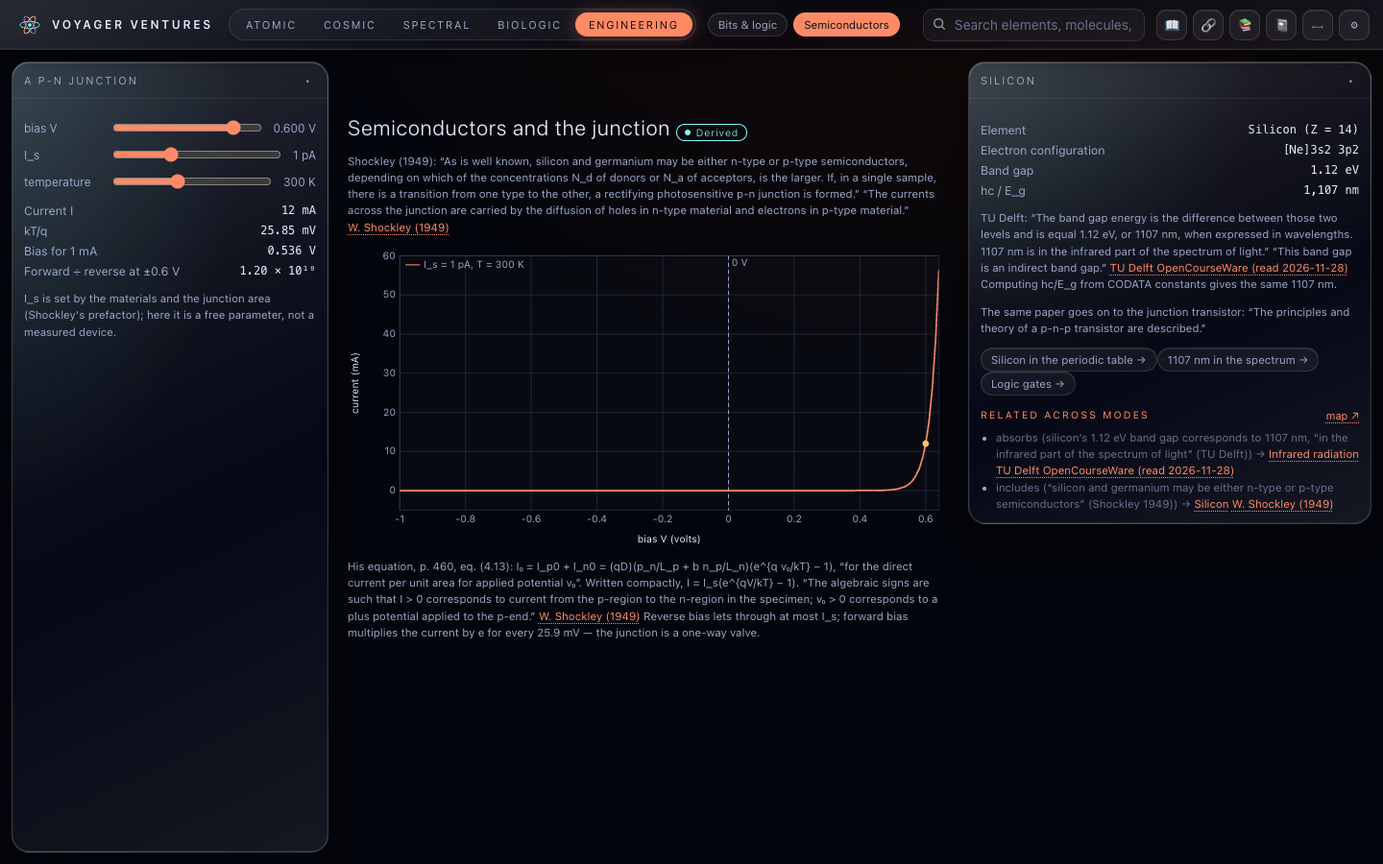
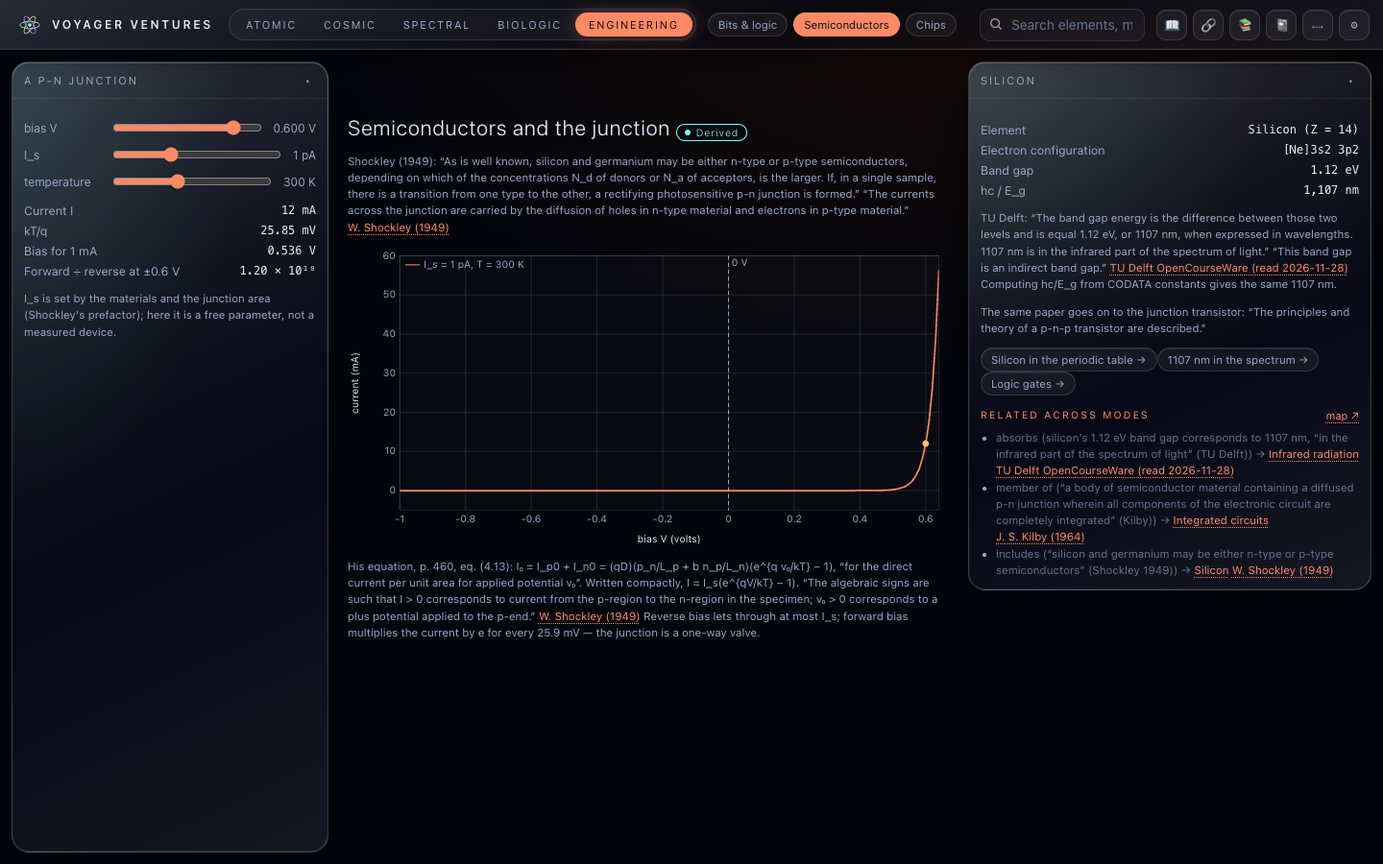
Gate 15.3: integrated circuits — Kilby and Noyce 1959 patents, the planar process (#/engineering/chips)
Both patents read on the USPTO page images; original drawing sheets shown (public domain).

Claude-Session: https://claude.ai/code/session_012kk9KVTjrcZt1kBsRpDRu1

Changed region(s): [[0.7188, 0.56, 0.9688, 0.6844], [0.6562, 0.0, 0.75, 0.0622]]

diff --git a/src/modes/engineering/chips/ChipsView.tsx b/src/modes/engineering/chips/ChipsView.tsx
@@ -1,0 +1,80 @@
+/**
+ * Integrated circuits — #/engineering/chips?p=kilby|noyce&s=<step>   (Phase 15, Gate 15.3)
+ *
+ * The two 1959 patents that put a whole circuit into one piece of semiconductor, read on the USPTO page images:
+ * Kilby (US 3,138,743) and Noyce (US 2,981,877), with their original drawing sheets (public domain) and a
+ * step-through of Noyce's planar process in his own words, drawn as a schematic section after his Fig. 2.
+ */
+import { navigate, setQuery, useRoute } from '@/shared/router';
+import { KV, Panel, ProvenanceBadge } from '@/ui/components';
+import { SourceLinks } from '@/ui/SourcesView';
+import { RelatedLinks } from '@/ui/RelatedLinks';
+import data from '@datasets/engineering/chips.json';
+
+interface Pat { source: string; number: string; title: string; filed: string; granted: string; assignee: string; image: string; imageCaption: string; quotes: string[] }
+const D = data as unknown as { kilby: Pat; noyce: Pat & { steps: { title: string; quote: string }[]; scale: { quote: string } } };
+const SI = '#55607a', N = '#4a6fa5', P = '#a5624a', OX = '#7df9ff', MET = '#f5c76b';
+
+/** Schematic cross-section after Noyce's Fig. 2 at step s (0–3): not to scale. */
+function Section({ s }: { s: number }) {
+  const W = 560;
+  return (
+    <svg viewBox={`0 0 ${W} 200`} role="img" aria-label={`Planar process, step ${s + 1}`} style={{ width: '100%', maxWidth: W }}>
+      <rect x={20} y={70} width={520} height={110} fill={SI} />
+      <path d="M 170 70 Q 280 170 390 70 Z" fill={N} /><path d="M 220 70 Q 280 130 340 70 Z" fill={P} /><path d="M 255 70 Q 280 98 305 70 Z" fill={N} />
+      <text x={30} y={170} fontSize={12} fill="#dde">silicon body</text><text x={185} y={100} fontSize={12} fill="#fff">N</text><text x={232} y={86} fontSize={11} fill="#fff">P</text><text x={276} y={84} fontSize={10} fill="#fff">N</text>
+      {s >= 0 && <rect x={20} y={58} width={520} height={12} fill={OX} opacity={0.75} />}
+      {s >= 2 && <><rect x={268} y={58} width={24} height={12} fill="#03050c" /><rect x={226} y={58} width={14} height={12} fill="#03050c" /></>}
+      {s >= 3 && <><rect x={268} y={46} width={24} height={24} fill={MET} /><path d="M 280 46 L 480 46 L 480 58 L 292 58 Z" fill={MET} /><rect x={226} y={46} width={14} height={24} fill={MET} /><path d="M 233 46 L 60 46 L 60 58 L 226 58 Z" fill={MET} /></>}
+      <text x={430} y={40} fontSize={11} fill={s >= 3 ? MET : 'transparent'}>metal leads on the oxide</text>
+      <text x={420} y={86} fontSize={11} fill={OX}>↑ oxide layer</text>
+      {s >= 2 && <text x={210} y={30} fontSize={11} fill="var(--text-dim)">windows opened through the oxide</text>}
+      <text x={20} y={196} fontSize={10} fill="var(--text-faint)">Schematic after Noyce's Fig. 2 (emitter N, base P, collector N); thicknesses exaggerated, not to scale.</text>
+    </svg>
+  );
+}
+
+export default function ChipsView() {
+  const { query } = useRoute();
+  const which = query.get('p') === 'kilby' ? 'kilby' : 'noyce';
+  const pat: Pat = which === 'kilby' ? D.kilby : D.noyce;
+  const s = Math.min(3, Math.max(0, Number(query.get('s')) || 0));
+  const step = D.noyce.steps[s];
+  return (
+    <>
+      <Panel id="chips-list" className="left-panel" title="Two patents, 1959">
+        {([['kilby', D.kilby], ['noyce', D.noyce]] as const).map(([k, p]) => (
+          <button key={k} className={`chip ${k === which ? 'active' : ''}`} aria-pressed={k === which} onClick={() => setQuery({ p: k === 'noyce' ? null : k })} style={{ display: 'block', marginBottom: 6 }}>{k === 'kilby' ? 'Kilby' : 'Noyce'} — {p.title}</button>
+        ))}
+        <dl className="kv" aria-label="Patent values">
+          <KV k="Patent" v={`US ${pat.number}`} /><KV k="Filed" v={pat.filed} /><KV k="Granted" v={pat.granted} /><KV k="Assignee" v={pat.assignee} />
+        </dl>
+        <p className="note">Both read on the U.S. Patent Office page images. <SourceLinks ids={[pat.source]} /></p>
+      </Panel>
+      <div className="center-stage hr-stage">
+        <div className="stage-head"><h1>A whole circuit in one crystal <ProvenanceBadge cls="observed" title="Patent text and drawings (public domain)" /></h1>
+          {pat.quotes.map((q, i) => <p key={i} className="note">“{q}”</p>)}
+          <p className="note"><SourceLinks ids={[pat.source]} /></p></div>
+        {which === 'noyce' && (
+          <section aria-label="Planar process" style={{ marginBottom: 12 }}>
+            <div className="chip-row" role="group" aria-label="Process steps">{D.noyce.steps.map((x, i) => <button key={x.title} className={`chip ${i === s ? 'active' : ''}`} aria-pressed={i === s} onClick={() => setQuery({ s: String(i) })}>{i + 1}. {x.title}</button>)}</div>
+            <Section s={s} />
+            <blockquote className="quote">“{step.quote}” <SourceLinks ids={[D.noyce.source]} /></blockquote>
+          </section>
+        )}
+        <figure style={{ margin: 0 }}>
+          <img src={pat.image} alt={`US patent ${pat.number}, ${pat.imageCaption}`} style={{ maxWidth: '100%', maxHeight: 520, background: '#fff', borderRadius: 6 }} />
+          <figcaption className="note">US {pat.number}, {pat.imageCaption}. United States Patent Office (public domain).</figcaption>
+        </figure>
+      </div>
+      <Panel id="chips-detail" className="right-panel" title="How small">
+        <p className="note">Noyce: “{D.noyce.scale.quote}” For comparison, a mitochondrion is “Typically 1–2 micrometers but can be up to 7 micrometers long”. <SourceLinks ids={['nigms-inside-the-cell']} /></p>
+        <button className="chip" onClick={() => navigate('/biologic?sel=mitochondrion')}>Microns on the scale of life →</button>
+        <button className="chip" onClick={() => navigate('/engineering/semiconductors')}>The p-n junction →</button>
+        <button className="chip" onClick={() => navigate('/atomic/element/14')}>Silicon →</button>
+        <p className="note">Moore's 1965 observation on how the number of components per chip grows is not shown: the only copy found is on a site whose terms forbid automated access.</p>
+        <RelatedLinks id="instrument:chips" limit={3} />
+      </Panel>
+    </>
+  );
+}

diff --git a/scripts/ingestion/curated-chips.ts b/scripts/ingestion/curated-chips.ts
@@ -1,0 +1,35 @@
+/**
+ * Integrated circuits (Phase 15, Gate 15.3) → datasets/engineering/chips.json
+ *
+ *   node --experimental-strip-types scripts/ingestion/curated-chips.ts
+ *
+ * Read 2026-11-28 on the USPTO page images (image-ppubs.uspto.gov; robots.txt absent; U.S. patents are public
+ * domain): Kilby US 3,138,743 (filed 6 Feb 1959) col. 1–2 and sheet 4; Noyce US 2,981,877 (filed 30 July 1959)
+ * col. 1–2 and sheet 1. The two drawing sheets are reproduced in public/images/patents/ (downscaled, unaltered).
+ */
+import { writeDataset } from './lib/ingest.ts';
+
+const data = {
+  version: '1.0.0',
+  kilby: { source: 'kilby-us3138743', number: '3,138,743', title: 'Miniaturized Electronic Circuits', filed: '1959-02-06', granted: '1964-06-23', assignee: 'Texas Instruments', image: '/images/patents/kilby-3138743-sheet4.jpg', imageCaption: 'Sheet 4 (Figs. 8a–8c), as filed',
+    quotes: [
+      'This invention relates to miniature electronic circuits, and more particularly to unique integrated electronic circuits fabricated from semiconductor material.',
+      'It is, therefore, a principal object of this invention to provide a novel miniaturized electronic circuit fabricated from a body of semiconductor material containing a diffused p-n junction wherein all components of the electronic circuit are completely integrated into the body of semiconductor material.',
+      'In accordance with the principles of the invention, the ultimate in circuit miniaturization is attained using only one material for all circuit elements and a limited number of compatible process steps for the production thereof.',
+    ] },
+  noyce: { source: 'noyce-us2981877', number: '2,981,877', title: 'Semiconductor Device-and-Lead Structure', filed: '1959-07-30', granted: '1961-04-25', assignee: 'Fairchild Semiconductor', image: '/images/patents/noyce-2981877-sheet1.jpg', imageCaption: 'Sheet 1 (Figs. 1 and 2: plan view and section), as filed',
+    quotes: [
+      'to make unitary circuit structures more compact and more easily fabricated in small sizes than has heretofore been feasible; and to facilitate the inclusion of numerous semiconductor devices within a single body of material.',
+      'In brief, the present invention utilizes dished junctions extending to the surface of a body of extrinsic semiconductor, an insulating surface layer consisting essentially of oxide of the same semiconductor extending across the junctions, and leads in the form of vacuum-deposited or otherwise formed metal strips extending over and adherent to the insulating oxide layer for making electrical connections to and between various regions of the semiconductor body without shorting the junctions.',
+    ],
+    steps: [
+      { title: 'Diffuse and oxidise', quote: 'During diffusion of the donor and acceptor impurities into the semiconductor, at elevated temperature in an oxidizing atmosphere, the surface of the silicon oxidizes and forms an oxide layer 5, often one micron or more in thickness, congenitally united with and covering surface 2.' },
+      { title: 'An insulator', quote: 'the oxide surface layer is durable and firmly adherent to the semiconductor body, and furthermore it is a good electrical insulator.' },
+      { title: 'Open windows by photoengraving', quote: 'A convenient and highly accurate way to remove only selected portions of the oxide film is to use photoengraving techniques.' },
+      { title: 'Leads over the oxide', quote: 'Electrical connections to this emitter contact are made through a metal strip 7 extending over and adherent to oxide layer 5.' },
+    ],
+    scale: { quote: 'The thickness of the emitter and base layers has been exaggerated in the drawings: in actual practice each of these layers is but a few microns thick.' } },
+};
+writeDataset('datasets/engineering/chips.json', data, { dataset: 'chips', version: '1.0.0', records: 11,
+  sources: [{ institution: 'United States Patent and Trademark Office: US 3,138,743 (Kilby) and US 2,981,877 (Noyce)', url: 'https://image-ppubs.uspto.gov/dirsearch-public/print/downloadPdf/3138743', license: 'U.S. patents: public domain', notes: 'text and drawings read on the page images' }],
+  adapter: 'scripts/ingestion/curated-chips.ts', warnings: ['Moore (1965) is not used: Intel’s terms of use forbid automated access and no other open copy was found.'] });

diff --git a/src/App.tsx b/src/App.tsx
@@ -74,6 +74,7 @@ const GrTestsView = lazy(() => import('@/modes/cosmic/relativity/GrTestsView'));
 const ModelsView = lazy(() => import('@/modes/cosmic/universe/ModelsView'));
 const LogicView = lazy(() => import('@/modes/engineering/logic/LogicView'));
 const SemiconductorsView = lazy(() => import('@/modes/engineering/semiconductors/SemiconductorsView'));
+const ChipsView = lazy(() => import('@/modes/engineering/chips/ChipsView'));
 
 export default function App() {
   const { path } = useRoute();
@@ -110,7 +111,7 @@ export default function App() {
   } else if (mode === 'cosmic') view = path[1] === 'map' ? <UniverseMapView /> : path[1] === 'plasma' ? <PlasmaView /> : path[1] === 'grtests' ? <GrTestsView /> : path[1] === 'models' ? <ModelsView /> : path[1] === 'sandbox' ? <SandboxView /> : path[1] === 'relativity' ? <RelativityView /> : path[1] === 'compact' ? <CompactView /> : path[1] === 'lensing' ? <LensingView /> : path[1] === 'galaxies' ? <GalaxiesView /> : path[1] === 'nebulae' ? <NebulaeView /> : path[1] === 'universe' ? <UniverseView /> : path[1] === 'ladder' ? <LadderView /> : path[1] === 'cmb' ? <CmbView /> : path[1] === 'darkmatter' ? <DarkMatterView /> : path[1] === 'gw' ? <GwView /> : path[1] === 'stars' ? (path[2] === 'hr' ? <HrView /> : path[2] === 'planets' ? <PlanetsView /> : <StarsView />) : <CosmicView focusId={path[1] ?? 'sun'} />;
   else if (mode === 'spectral') view = path[1] === 'lab' ? <WaveLab /> : path[1] === 'fields' ? <FieldsView /> : path[1] === 'compare' ? <CompareView /> : path[1] === 'antennas' ? <AntennaView /> : path[1] === 'rf' ? <RfView /> : path[1] === 'room' ? <RoomView /> : path[1] === 'modulation' ? <ModulationView /> : path[1] === 'acoustics' ? <AcousticsView /> : path[1] === 'audio' ? <AudioView /> : path[1] === 'roomacoustics' ? <RoomAcousticsView /> : path[1] === 'optics' ? <OpticsView /> : path[1] === 'waveoptics' ? <WaveOpticsView /> : path[1] === 'polarisation' ? <PolarisationView /> : path[1] === 'spectroscopy' ? <SpectroscopyView /> : path[1] === 'thermal' ? <ThermalView /> : path[1] === 'telescopes' ? <TelescopesView /> : path[1] === 'atmosphere' ? <AtmosphereView /> : <SpectralAtlas />;
   else if (mode === 'biologic') view = path[1] === 'molecules' ? <BiomoleculesView /> : path[1] === 'proteins' ? <ProteinsView /> : path[1] === 'cells' ? <CellsView /> : path[1] === 'membranes' ? <MembranesView /> : path[1] === 'transport' ? <TransportView /> : path[1] === 'plants' ? <PlantsView /> : path[1] === 'body' ? <BodyView /> : path[1] === 'movement' ? <MovementView /> : path[1] === 'circulation' ? <CirculationView /> : path[1] === 'nerves' ? <NervesView /> : path[1] === 'systems' ? <SystemsView /> : path[1] === 'zoom' ? <ZoomView /> : path[1] === 'senses' ? <SensesView /> : path[1] === 'imaging' ? <ImagingView /> : <LifeAtlasView />;
-  else if (mode === 'engineering') view = path[1] === 'semiconductors' ? <SemiconductorsView /> : <LogicView />;
+  else if (mode === 'engineering') view = path[1] === 'semiconductors' ? <SemiconductorsView /> : path[1] === 'chips' ? <ChipsView /> : <LogicView />;
   else if (mode === 'notebook') view = <NotebookView />;
   else if (mode === 'scale') view = <ScaleView />;
   else if (mode === 'relations') view = <RelationsView />;

diff --git a/src/shared/sources/sources.ts b/src/shared/sources/sources.ts
@@ -1009,6 +1009,12 @@ export const SOURCES: Source[] = [
   { id: 'tudelft-ocw-solar', kind: 'book', citation: 'TU Delft OpenCourseWare. Solar Energy, section 12.1 “Crystalline silicon” (course text, read 2026-11-28).', title: 'Solar Energy — 12.1 Crystalline silicon', authors: 'TU Delft OpenCourseWare', year: 'read 2026-11-28',
     institution: 'Delft University of Technology', url: 'https://ocw.tudelft.nl/courses/solar-energy/', license: 'Course page: Creative Commons Attribution-NonCommercial-ShareAlike 4.0 International (the section PDF carries no separate notice)', authorBio: null,
     usedFor: ['silicon’s band gap 1.12 eV, 1107 nm, indirect'], datasets: ['semiconductors'] },
+  { id: 'kilby-us3138743', kind: 'report', citation: 'Kilby, J. S. (1964) Miniaturized Electronic Circuits. U.S. Patent 3,138,743, filed 6 February 1959, granted 23 June 1964 (assignor to Texas Instruments). Read on the USPTO page images.', title: 'Miniaturized Electronic Circuits (US 3,138,743)', authors: 'J. S. Kilby', year: 1964,
+    institution: 'United States Patent Office', url: 'https://image-ppubs.uspto.gov/dirsearch-public/print/downloadPdf/3138743', license: 'U.S. patent: public domain (drawing sheet 4 reproduced)', authorBio: null,
+    usedFor: ['“all components of the electronic circuit are completely integrated into the body of semiconductor material” (col. 2)'], datasets: ['chips'] },
+  { id: 'noyce-us2981877', kind: 'report', citation: 'Noyce, R. N. (1961) Semiconductor Device-and-Lead Structure. U.S. Patent 2,981,877, filed 30 July 1959, granted 25 April 1961 (assignor to Fairchild Semiconductor). Read on the USPTO page images.', title: 'Semiconductor Device-and-Lead Structure (US 2,981,877)', authors: 'R. N. Noyce', year: 1961,
+    institution: 'United States Patent Office', url: 'https://image-ppubs.uspto.gov/dirsearch-public/print/downloadPdf/2981877', license: 'U.S. patent: public domain (drawing sheet 1 reproduced)', authorBio: null,
+    usedFor: ['the oxide insulating layer, photoengraving, and metal leads over the oxide (col. 1–2)'], datasets: ['chips'] },
   { id: 'southall-1910', kind: 'book', citation: 'Southall, J. P. C. (1910) The Principles and Methods of Geometrical Optics, Especially as Applied to the Theory of Optical Instruments. New York: Macmillan.', title: 'The Principles and Methods of Geometrical Optics', authors: 'J. P. C. Southall', year: 1910,
     institution: 'Macmillan; scan of the University of Toronto library at the Internet Archive (principlesmethod00soutuoft)', url: 'https://archive.org/details/principlesmethod00soutuoft', license: 'Public domain (published 1910)',
     authorBio: 'James P. C. Southall, Professor of Physics in the Alabama Polytechnic Institute (title page, read from the scan’s text layer).',

diff --git a/tests/e2e/phase15.spec.ts b/tests/e2e/phase15.spec.ts
@@ -62,3 +62,21 @@ test('117 semiconductors: silicon’s band gap and Shockley’s junction equatio
   await page.getByLabel('Bias voltage').fill('-0.5');
   await expect(v).toContainText('−1 pA');
 });
+
+// ---------------- Gate 15.3 ----------------
+test('118 integrated circuits: Kilby’s and Noyce’s 1959 patents and the planar process', async ({ page }) => {
+  await page.goto('/#/engineering/semiconductors');
+  await page.getByRole('navigation', { name: 'Engineering sections' }).getByRole('button', { name: 'Chips' }).click();
+  await expect(page).toHaveURL(/#\/engineering\/chips$/);
+  const bar = await page.locator('header.topbar').boundingBox(), acts = await page.locator('.topbar-actions').boundingBox();
+  expect(acts!.x + acts!.width).toBeLessThanOrEqual(bar!.x + bar!.width + 1);
+  await expect(page.getByLabel('Patent values')).toContainText('US 2,981,877');
+  await expect(page.locator('.stage-head')).toContainText('without shorting the junctions');
+  await page.getByRole('button', { name: '4. Leads over the oxide' }).click();
+  await expect(page.getByRole('region', { name: 'Planar process' })).toContainText('a metal strip 7 extending over and adherent to oxide layer 5');
+  await expect(page.getByRole('img', { name: /US patent 2,981,877/ })).toBeVisible();
+  await shot(page, '118a-noyce', 'Integrated circuits (Gate 15.3): Noyce’s US 2,981,877 (filed 1959) — the planar process step by step in his own words (oxide, photoengraved windows, metal leads over the oxide), a schematic section after his Fig. 2, and his original drawing sheet.');
+  await page.getByRole('button', { name: /^Kilby — / }).click();
+  await expect(page.locator('.stage-head')).toContainText('all components of the electronic circuit are completely integrated');
+  await shot(page, '118b-kilby', 'Kilby’s US 3,138,743 (filed February 1959): the integrated circuit in one body of semiconductor, with drawing sheet 4.');
+});

diff --git a/src/ui/TopBar.tsx b/src/ui/TopBar.tsx
@@ -32,7 +32,7 @@ interface Hit { kind: 'element' | 'molecule' | 'body' | 'reaction' | 'material' 
 const SPECTRAL_SECTIONS = ['lab', 'fields', 'compare', 'antennas', 'rf', 'room', 'modulation', 'acoustics', 'audio', 'roomacoustics', 'optics', 'waveoptics', 'polarisation', 'spectroscopy', 'thermal', 'telescopes', 'atmosphere'];
 /** Biologic sub-routes other than the scale-of-life atlas (Phase 11+). */
 export const BIOLOGIC_SECTIONS: string[] = ['molecules', 'proteins', 'cells', 'membranes', 'transport', 'plants', 'body', 'movement', 'circulation', 'nerves', 'systems', 'zoom', 'senses', 'imaging'];
-const ENGINEERING_SECTIONS: string[] = ['semiconductors'];
+const ENGINEERING_SECTIONS: string[] = ['semiconductors', 'chips'];
 const COSMIC_SECTIONS = ['map', 'stars', 'sandbox', 'relativity', 'compact', 'lensing', 'galaxies', 'nebulae', 'universe', 'ladder', 'cmb', 'darkmatter', 'gw', 'plasma', 'grtests', 'models'];
 
 /** A chip that opens a small menu of related sections; it is highlighted when one of them is open. */
@@ -315,6 +315,7 @@ export function TopBar() {
           <nav className="chip-row hide-mobile" aria-label="Engineering sections">
             <button className={`chip ${!ENGINEERING_SECTIONS.includes(path[1]) ? 'active' : ''}`} onClick={() => navigate('/engineering')}>Bits & logic</button>
             <button className={`chip ${path[1] === 'semiconductors' ? 'active' : ''}`} onClick={() => navigate('/engineering/semiconductors')}>Semiconductors</button>
+            <button className={`chip ${path[1] === 'chips' ? 'active' : ''}`} onClick={() => navigate('/engineering/chips')}>Chips</button>
           </nav>
         )}
         {mode === 'biologic' && (

diff --git a/src/shared/scientific-relationships/registry.ts b/src/shared/scientific-relationships/registry.ts
@@ -415,6 +415,9 @@ registerEntity(E('instrument:logic', 'Bits and logic', '#/engineering', 'Binary,
 registerEntity(E('instrument:semiconductors', 'Semiconductors and the junction', '#/engineering/semiconductors', 'Silicon’s band gap and Shockley’s p-n junction equation (Gate 15.2)'));
 registerRelationship({ from: 'element:14', to: 'instrument:semiconductors', type: 'part-of', context: '“silicon and germanium may be either n-type or p-type semiconductors” (Shockley 1949)', source: 'shockley-1949' });
 registerRelationship({ from: 'instrument:semiconductors', to: 'wave:em-infrared', type: 'absorbs', context: 'silicon’s 1.12 eV band gap corresponds to 1107 nm, “in the infrared part of the spectrum of light” (TU Delft)', source: 'tudelft-ocw-solar' });
+registerEntity(E('instrument:chips', 'Integrated circuits', '#/engineering/chips', 'Kilby’s and Noyce’s 1959 patents; the planar process (Gate 15.3)'));
+registerRelationship({ from: 'instrument:semiconductors', to: 'instrument:chips', type: 'part-of', context: '“a body of semiconductor material containing a diffused p-n junction wherein all components of the electronic circuit are completely integrated” (Kilby)', source: 'kilby-us3138743' });
+registerRelationship({ from: 'element:14', to: 'instrument:chips', type: 'part-of', context: '“the surface of the silicon oxidizes and forms an oxide layer” — a good electrical insulator (Noyce)', source: 'noyce-us2981877' });
 
 export const getEntity = (id: string) => REGISTRY.get(id);
 export const allEntities = () => [...REGISTRY.values()];

diff --git a/STATUS_REPORT.md b/STATUS_REPORT.md
@@ -1,6 +1,6 @@
 # Voyager Ventures — status report and index
 
-*Kept up to date by Claude during the autonomous run. Last updated: **2026-11-28, Gate 15.2**.*
+*Kept up to date by Claude during the autonomous run. Last updated: **2026-11-28, Gate 15.3**.*
 
 Live site: https://voyager-ventures.vercel.app — **production still serves the build from 2026-11-27** (Phase 10 + universe map + interface pass). Nothing from Phases 11–14 is deployed: you asked for no deploys until Phase 14 is finished. The deploy command is at the bottom.
 
@@ -91,6 +91,7 @@ Four portals: ATOMIC, COSMIC, SPECTRAL, **BIOLOGIC** (new in Phase 11; shows the
 ### ENGINEERING (coral) — **new in Phase 15**
 | Address | What it is | Main sources |
 |---|---|---|
+| `#/engineering/chips` | **Chips** — Kilby’s and Noyce’s 1959 integrated-circuit patents with their drawings; the planar process step by step | US patents 3,138,743 and 2,981,877 |
 | `#/engineering/semiconductors` | **Semiconductors** — silicon’s band gap; a live p-n junction (Shockley’s 1949 equation) | Shockley 1949, TU Delft OCW |
 | `#/engineering` | **Bits & logic** — a byte in binary/hex/two's complement, logic gates with truth tables, NAND universality, a 4-bit adder built from gates | Boole 1854, Shannon 1938 and 1948, NIST |
 
@@ -101,6 +102,8 @@ Four portals: ATOMIC, COSMIC, SPECTRAL, **BIOLOGIC** (new in Phase 11; shows the
 ---
 
 ## 4. What was done in this run (newest first)
+
+- **Gate 15.3** — integrated circuits: the Kilby and Noyce patents read on the Patent Office's own page images, with their original drawings.
 
 - **Gate 15.2** — semiconductors: silicon and a live p-n junction from Shockley's 1949 equation.
 

diff --git a/KNOWN_LIMITATIONS.md b/KNOWN_LIMITATIONS.md
@@ -229,6 +229,7 @@
 * **Plants and microbes (Gate 11.7):** chlorophyll maxima only (no spectra: OMLC states no licence and PhotochemCAD's own site refused the robots.txt request); in ether, not in leaves; sunlight is a black-body model (no measured solar spectrum is openly licensed); no photosynthetic efficiency, no chloroplast drawing or size (no open source with a size was read; NHGRI has no chloroplast entry), no plant-cell schematic beyond its quoted size range. **Not built in Phase 11:** glycolysis and cellular respiration as views (`process:glycolysis` and `process:cellular-respiration` stay *planned*): no allowed open source for the ATP yield or the pathway steps was found.
 
 ## Phase 15 (Computing & Computer Engineering)
+* **Integrated circuits (15.3):** two founding patents and the planar process only — no transistor-count history (Moore 1965 not openly reachable), no lithography physics, no modern process nodes.
 * **Semiconductors (15.2):** the ideal (Shockley) junction only — no series resistance, breakdown, recombination current or temperature dependence of I_s; I_s is a free parameter; no MOSFET or CMOS yet (no openly readable primary source found so far); silicon values from a CC BY-NC-SA course text (no open US-government source found).
 * **Bits and logic (15.1):** ideal Boolean logic — no voltages, timing, propagation delay or fan-out (transistor behaviour comes in 15.2); NIST prefixes stop at exbi (zebi/yobi not on the NIST page); Shannon's 1938 thesis is view-only (the AIEE paper is used).
 

diff --git a/SCIENTIFIC_MODELS.md b/SCIENTIFIC_MODELS.md
@@ -710,3 +710,9 @@ Five new pathways through the Phase 11–14 records — From quarks to leaves; F
 * Shockley (1949) BSTJ 28, read on page images: n- and p-type silicon and germanium (p. 435); eq. (4.13) p. 460, written compactly as I = I_s(e^{qV/kT} − 1) (I_s collects his prefactor; labelled a restatement). Live I–V curve with I_s and temperature; kT/q = 25.85 mV at 300 K; 12.0 mA at +0.6 V for I_s = 1 pA.
 * Silicon: 1.12 eV band gap, 1107 nm (TU Delft OCW §12.1, CC BY-NC-SA course); hc/E_g from CODATA reproduces 1107 nm. Electron configuration from the bundled element data.
 * **Tests:** `tests/science/semiconductor.test.ts` (5).
+
+## 68. Integrated circuits (Phase 15, Gate 15.3): `src/modes/engineering/chips/`, `#/engineering/chips`
+
+* Kilby US 3,138,743 and Noyce US 2,981,877 read on the USPTO page images (robots.txt absent; U.S. patents public domain). Quotes from cols. 1–2; drawing sheets reproduced unaltered (downscaled) in `public/images/patents/`.
+* Noyce's planar process as four steps in his words (oxide formed during diffusion; “a good electrical insulator”; photoengraved windows; metal strips over the oxide), drawn as a schematic section after his Fig. 2, labelled not to scale.
+* Moore (1965) left out: the only copy is on intel.com, whose terms forbid bots.

diff --git a/BUILD_LOG.md b/BUILD_LOG.md
@@ -943,3 +943,10 @@ Committed together (one view with six tabs, one dataset).
 1. **View:** Engineering → Semiconductors: a live p-n junction (bias, saturation current, temperature) from Shockley's eq. (4.13); silicon's element data, band gap and 1107 nm edge; links to element 14 and the infrared in Spectral.
 2. **Sources (+2, 266 entries):** shockley-1949 (page images pp. 435, 460), tudelft-ocw-solar. Searched for a US-government silicon band-gap source: the DOE page survives only in the UNT web archive, whose robots.txt disallows ClaudeBot — not used.
 3. **Tests:** science `semiconductor.test.ts` (5, including hc/1.12 eV = 1107 nm); browser test 117.
+
+## Gate 15.3: integrated circuits (`#/engineering/chips`), 2026-11-28
+
+1. **View:** Engineering → Chips: Kilby's and Noyce's 1959 patents with their original drawing sheets; the planar process stepped through in Noyce's words with a schematic cross-section.
+2. **Read:** both patents on the USPTO page images (rendered with PDFKit); the research agent's Google Patents OCR text was replaced by image readings.
+3. **Sources (+2, 268 entries):** kilby-us3138743, noyce-us2981877.
+4. **Tests:** browser test 118.

diff --git a/screenshots/phase-15/INDEX.md b/screenshots/phase-15/INDEX.md
@@ -6,3 +6,5 @@ Generated by `tests/e2e/phase15.spec.ts` from the running application (Playwrigh
 - **116b-gates.png** — Logic gates: XOR with live inputs and its truth table; NAND alone rebuilding NOT, AND, OR and XOR; Boole’s x² = x (1854) and Shannon’s switching-circuit analogy (1938, with his hindrance convention).
 - **116c-adder.png** — Adding with gates: 9 + 12 through a 4-bit ripple-carry adder — every carry and sum bit computed by the gates; the answer needs a fifth bit.
 - **117a-junction.png** — Semiconductors (Gate 15.2): Shockley’s 1949 p-n junction equation (4.13) as a live current–voltage curve — 12 mA at +0.6 V for I_s = 1 pA, kT/q = 25.85 mV; silicon’s 1.12 eV band gap and its 1107 nm absorption edge (TU Delft).
+- **118a-noyce.png** — Integrated circuits (Gate 15.3): Noyce’s US 2,981,877 (filed 1959) — the planar process step by step in his own words (oxide, photoengraved windows, metal leads over the oxide), a schematic section after his Fig. 2, and his original drawing sheet.
+- **118b-kilby.png** — Kilby’s US 3,138,743 (filed February 1959): the integrated circuit in one body of semiconductor, with drawing sheet 4.
